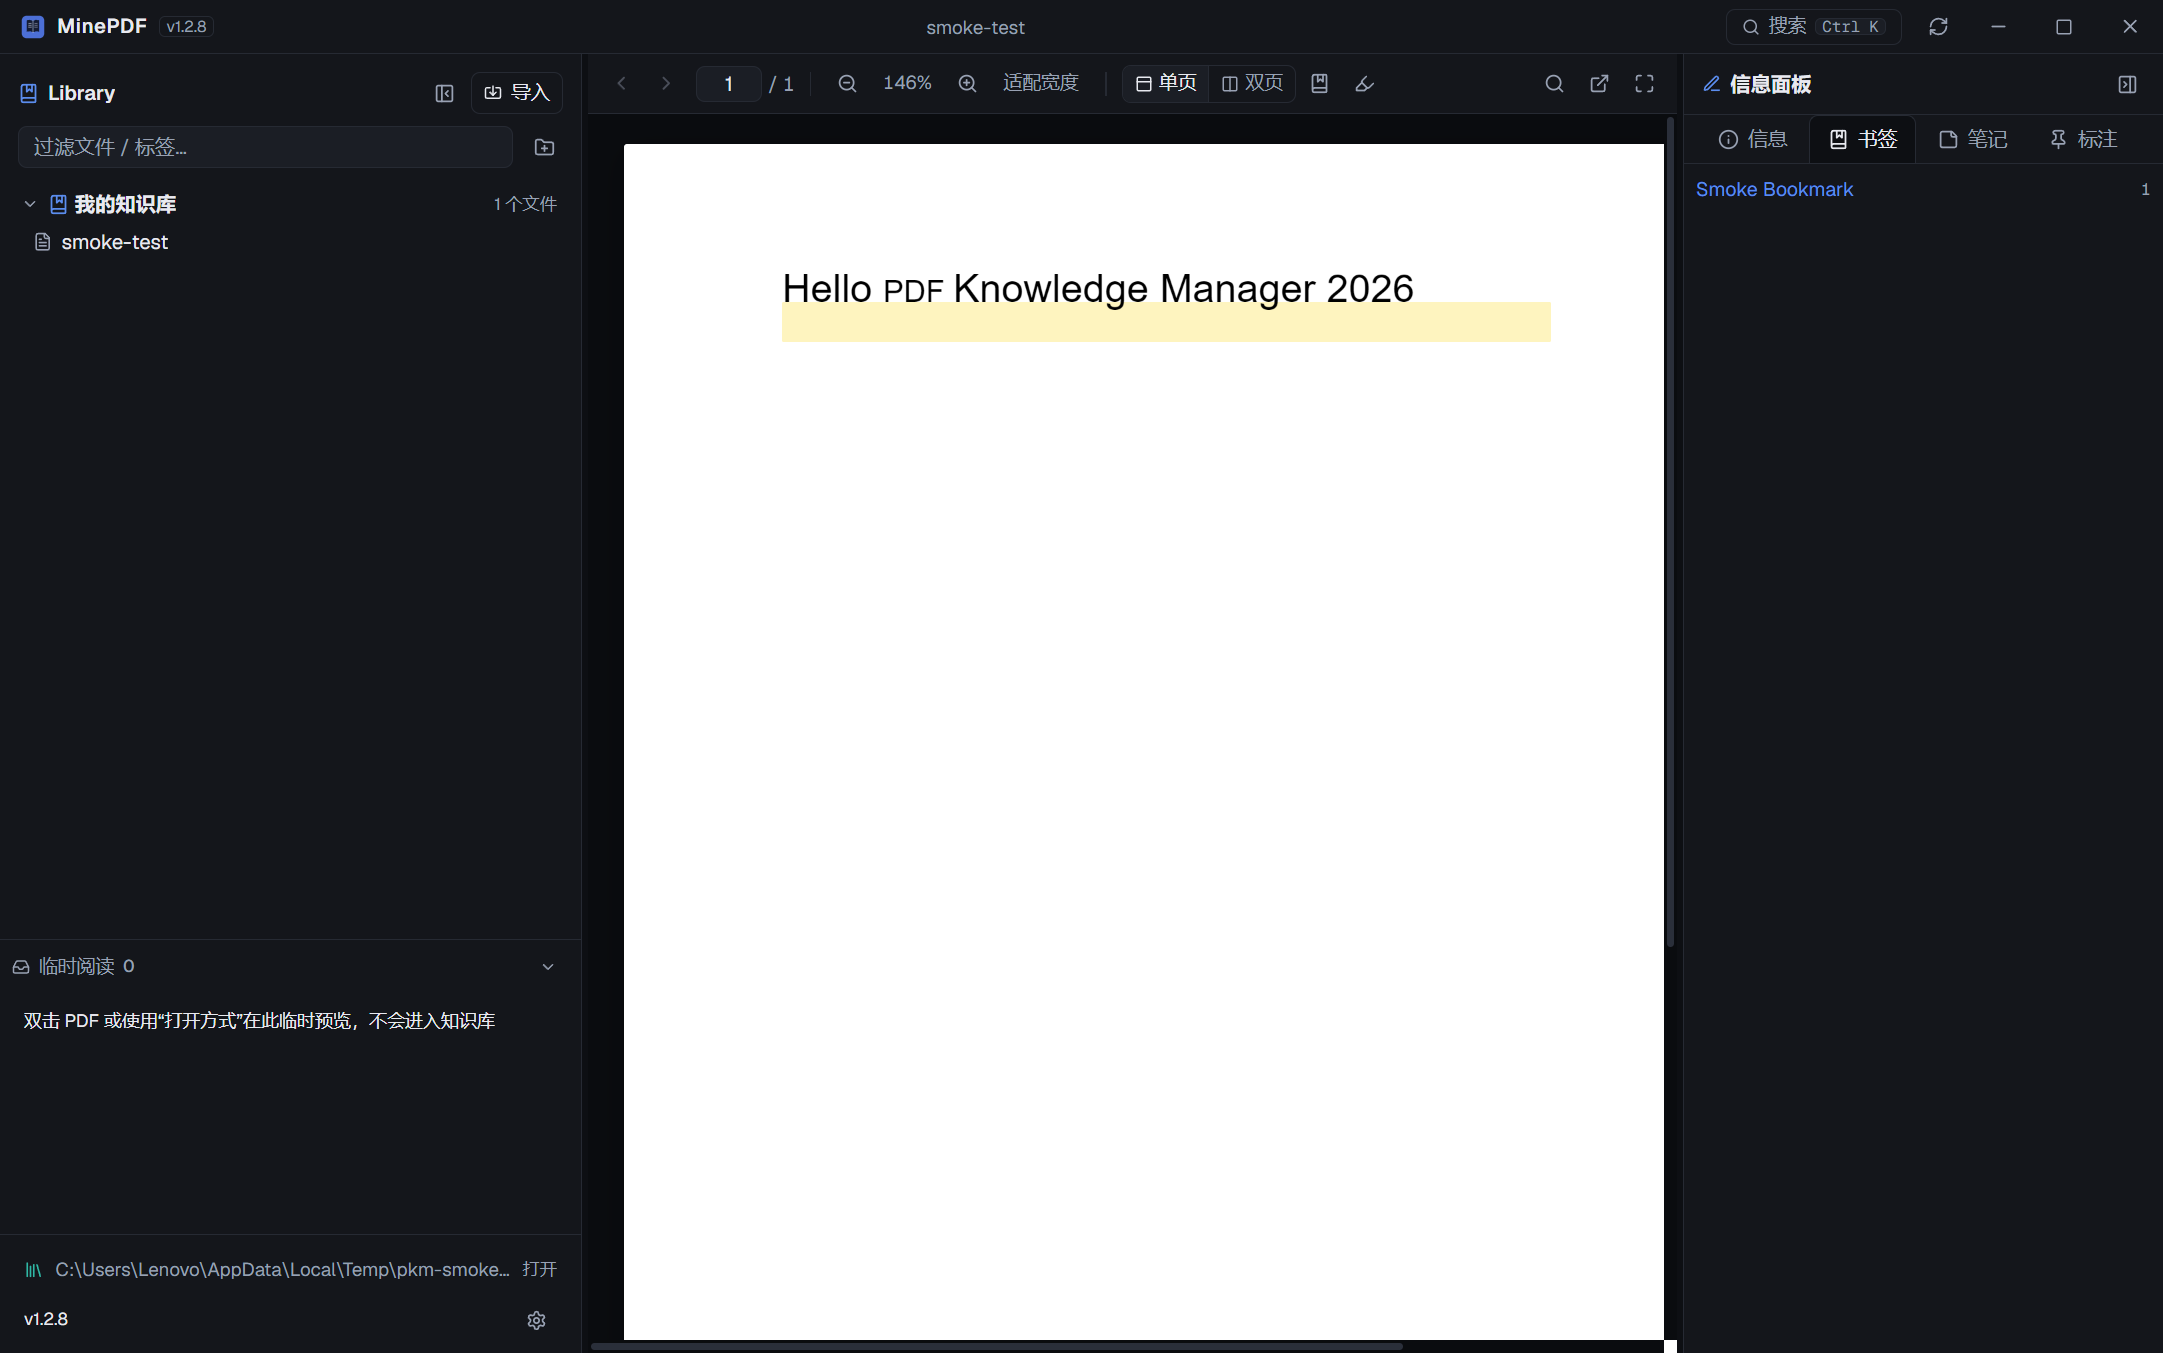
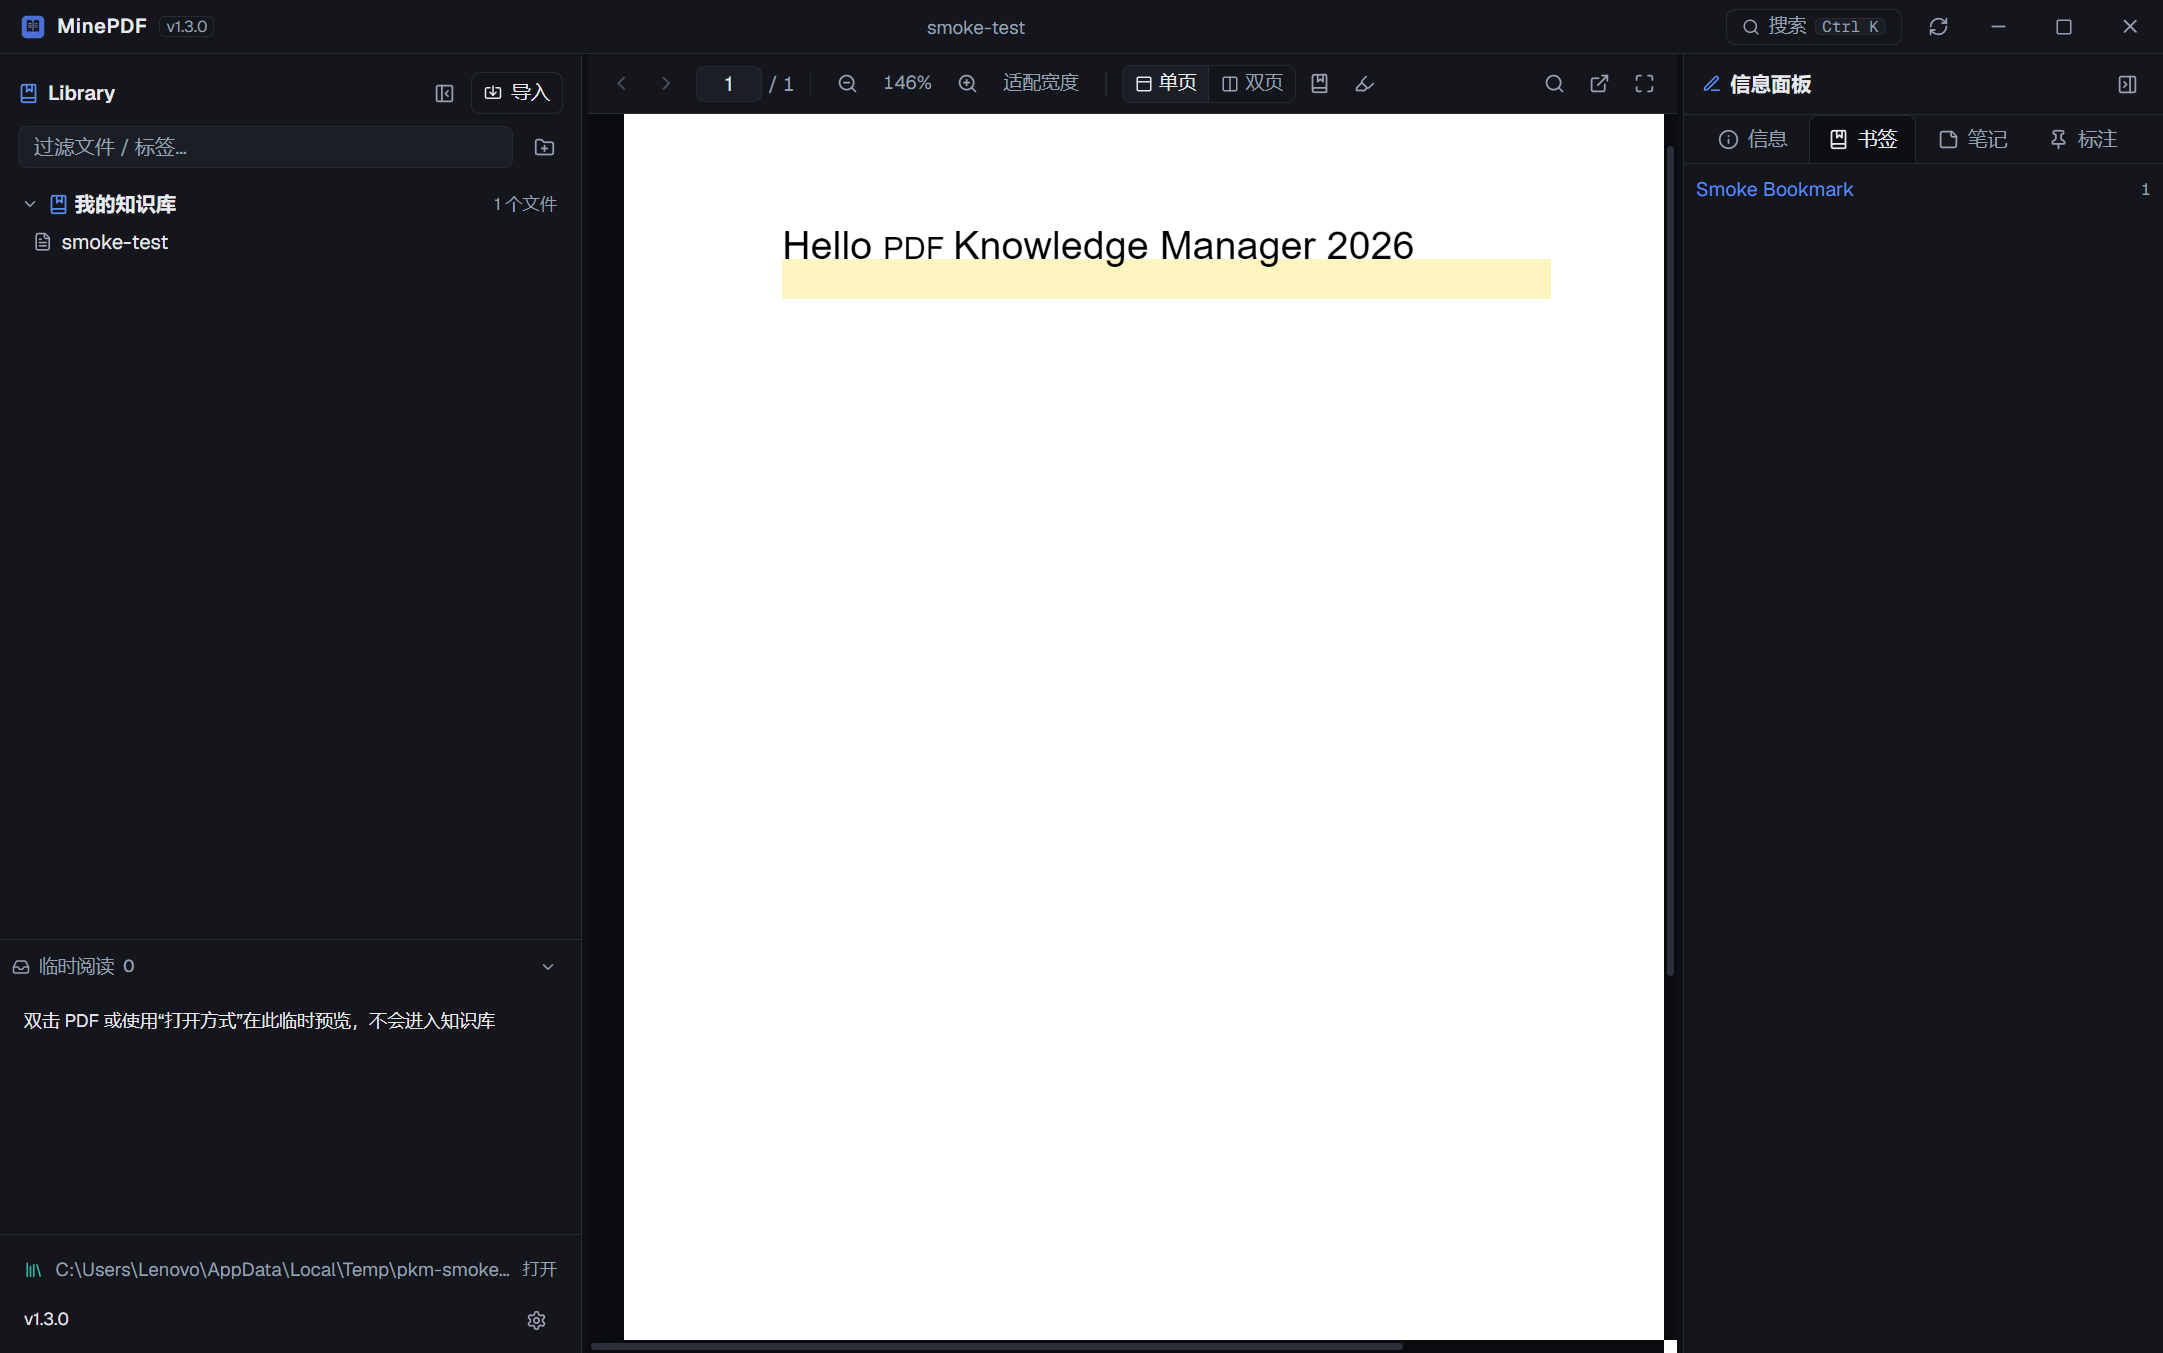
release: v1.3.1 - 沉浸式阅读：最大化窗口+固定161%缩放

Changed region(s): [[0.3407, 0.1552, 0.7434, 0.2794], [0.2788, 0.0621, 0.7744, 0.1242], [0.4337, 0.0, 0.4646, 0.031]]

diff --git a/src/components/Viewer/PdfViewer.tsx b/src/components/Viewer/PdfViewer.tsx
@@ -95,9 +95,12 @@ export function PdfViewer({ pdf, onMissing }: PdfViewerProps) {
   const canPanRef = useRef(false);
   const panStartRef = useRef<{ x: number; y: number; sl: number; st: number } | null>(null);
   const contentRef = useRef<HTMLDivElement>(null);
-  const immersivePrevRef = useRef<{ scale: number; sidebar: boolean; inspector: boolean } | null>(
-    null,
-  );
+  const immersivePrevRef = useRef<{
+    scale: number;
+    sidebar: boolean;
+    inspector: boolean;
+    maximized: boolean;
+  } | null>(null);
 
   useEffect(() => {
     scaleRef.current = scale;
@@ -397,7 +400,7 @@ export function PdfViewer({ pdf, onMissing }: PdfViewerProps) {
         target.tagName === 'INPUT' || target.tagName === 'TEXTAREA' || target.isContentEditable;
       if (e.key === 'Escape') {
         if (searchOpen) setSearchOpen(false);
-        else if (immersive) toggleImmersive();
+        else if (immersive) void toggleImmersive();
         return;
       }
       if (typing) return;
@@ -582,24 +585,24 @@ export function PdfViewer({ pdf, onMissing }: PdfViewerProps) {
   };
 
   /**
-   * 沉浸式阅读：收起左右边栏并自动放大一档；再次点击恢复到点击前的缩放与边栏状态。
+   * 沉浸式阅读：最大化窗口 + 收起左右边栏 + 固定放大到 161%；
+   * 再次点击恢复到点击前的窗口、缩放与边栏状态。
    */
-  const toggleImmersive = () => {
+  const toggleImmersive = async () => {
     const s = useApp.getState();
     if (!immersive) {
+      const wasMax = await window.pkm.isMaximized().catch(() => false);
       immersivePrevRef.current = {
         scale,
         sidebar: s.sidebarCollapsed,
         inspector: s.inspectorCollapsed,
+        maximized: wasMax,
       };
+      if (!wasMax) await window.pkm.toggleMaximize();
       if (!s.sidebarCollapsed) s.setSidebarCollapsed(true);
       if (!s.inspectorCollapsed) s.setInspectorCollapsed(true);
       setImmersive(true);
-      // 等侧栏收起、布局稳定后按新视口适配宽度，再放大一档
-      setTimeout(() => {
-        fitWidth();
-        setTimeout(() => setScale((cur) => Math.min(4, cur * 1.2)), 80);
-      }, 120);
+      setScale(1.61);
     } else {
       const prev = immersivePrevRef.current;
       setImmersive(false);
@@ -607,6 +610,10 @@ export function PdfViewer({ pdf, onMissing }: PdfViewerProps) {
         setScale(prev.scale);
         if (prev.sidebar !== s.sidebarCollapsed) s.setSidebarCollapsed(prev.sidebar);
         if (prev.inspector !== s.inspectorCollapsed) s.setInspectorCollapsed(prev.inspector);
+        if (!prev.maximized) {
+          const isMax = await window.pkm.isMaximized().catch(() => true);
+          if (isMax) await window.pkm.toggleMaximize();
+        }
       }
     }
   };

diff --git a/electron/main.ts b/electron/main.ts
@@ -425,25 +425,30 @@ async function createMainWindow(): Promise<BrowserWindow> {
                     const before = {
                       sidebarW: document.querySelector('aside').getBoundingClientRect().width,
                       scale: readScale(),
+                      maximized: await window.pkm.isMaximized(),
                     };
                     btn.click();
-                    await new Promise((r) => setTimeout(r, 900));
+                    await new Promise((r) => setTimeout(r, 1200));
                     const during = {
                       sidebarW: document.querySelector('aside').getBoundingClientRect().width,
                       scale: readScale(),
+                      maximized: await window.pkm.isMaximized(),
                     };
                     btn.click();
-                    await new Promise((r) => setTimeout(r, 900));
+                    await new Promise((r) => setTimeout(r, 1200));
                     const after = {
                       sidebarW: document.querySelector('aside').getBoundingClientRect().width,
                       scale: readScale(),
+                      maximized: await window.pkm.isMaximized(),
                     };
                     return {
                       btn: true,
                       collapsed: during.sidebarW < before.sidebarW - 10,
-                      zoomed: during.scale > before.scale + 0.05,
+                      maximizedDuring: during.maximized === true,
+                      zoom161: Math.abs(during.scale - 1.61) < 0.02,
                       restoredW: Math.abs(after.sidebarW - before.sidebarW) < 5,
                       restoredScale: Math.abs(after.scale - before.scale) < 0.05,
+                      restoredMax: after.maximized === before.maximized,
                       before, during, after,
                     };
                   })()
